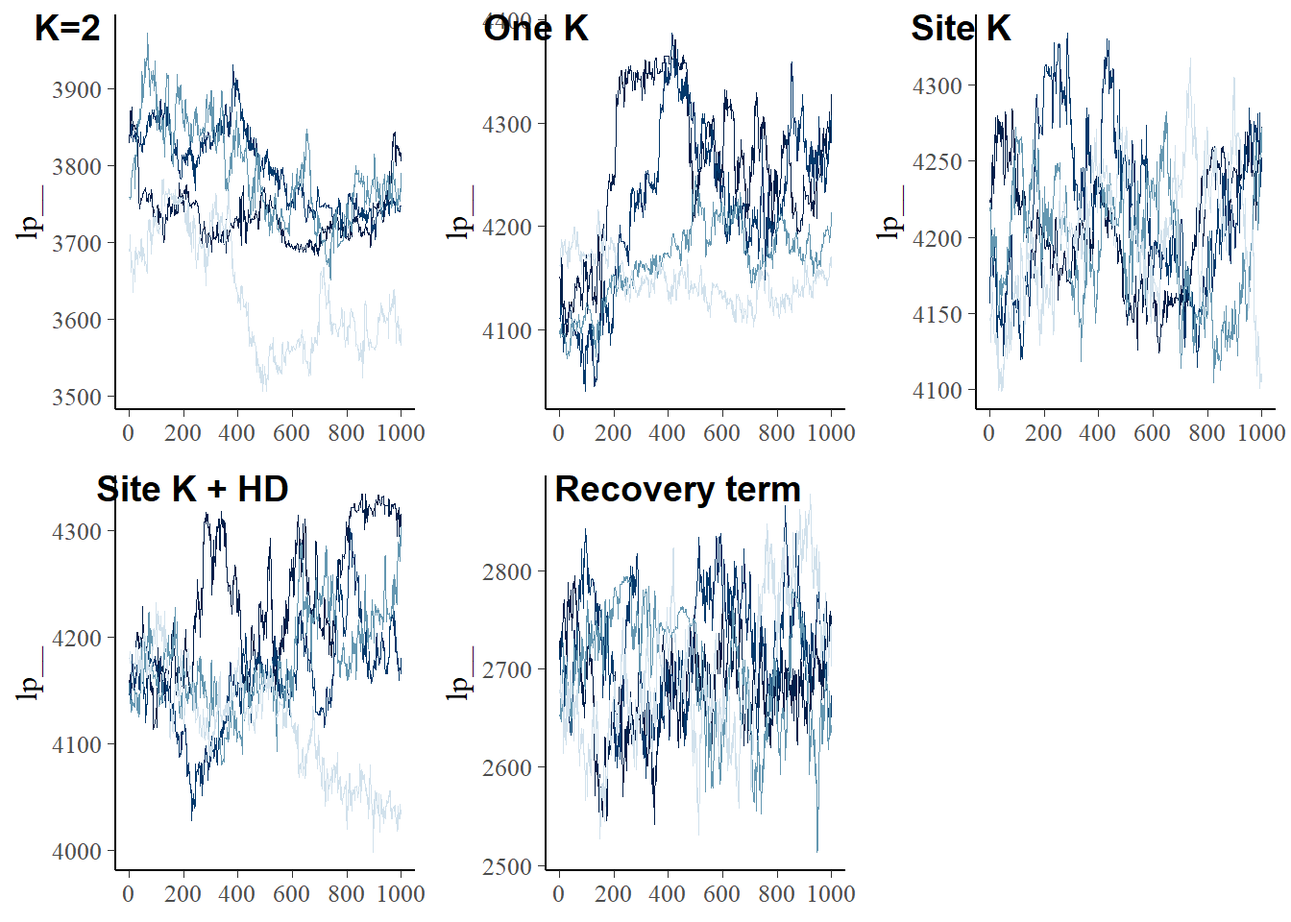
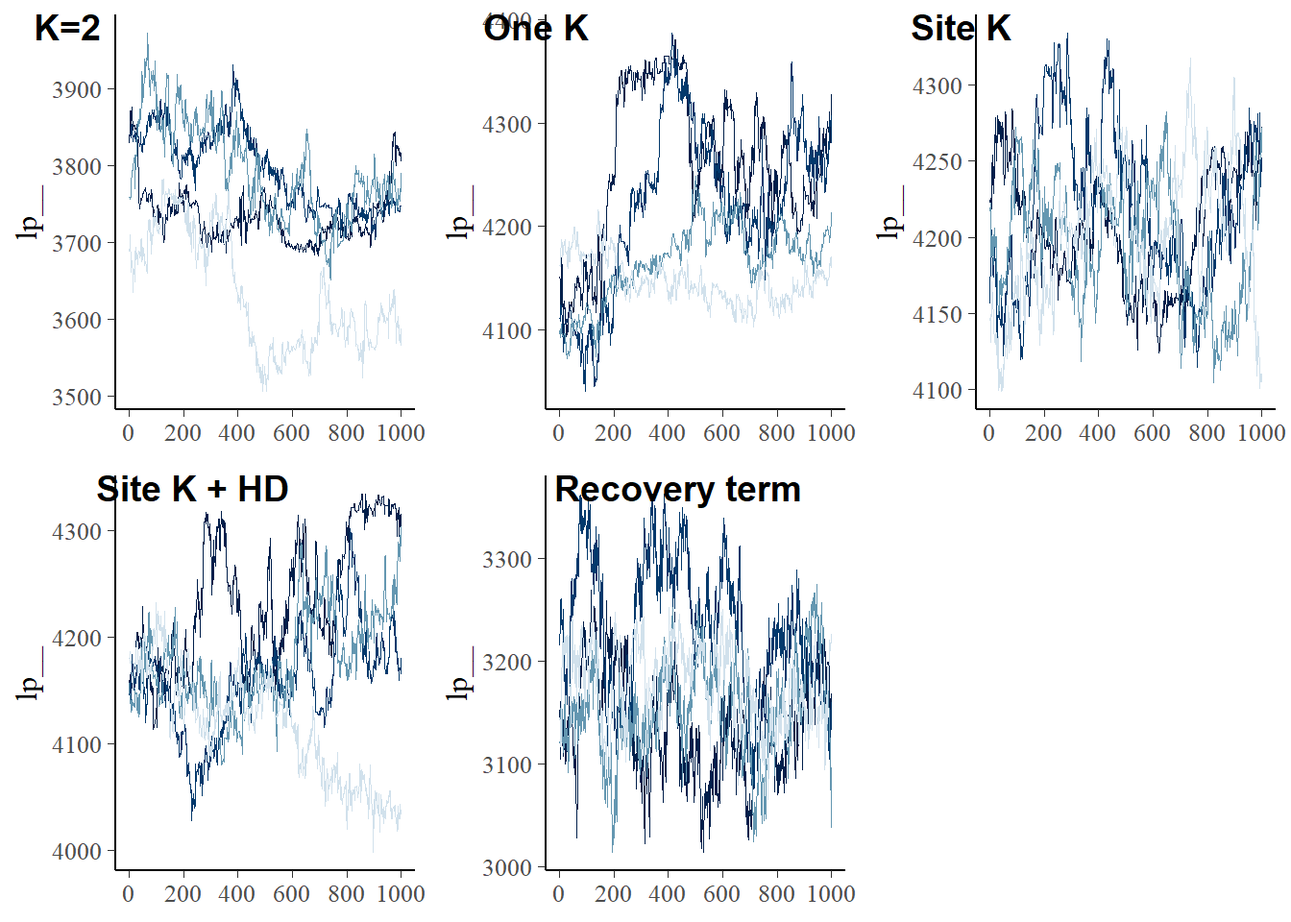
add flexibility in recovery model

diff --git a/docs/93_test_prod_model.html b/docs/93_test_prod_model.html
@@ -412,7 +412,7 @@ window.Quarto = {
 <span id="cb2-23"><a href="#cb2-23" aria-hidden="true" tabindex="-1"></a>  <span class="fu">flextable</span>()</span></code></pre></div><button title="Copy to Clipboard" class="code-copy-button"><i class="bi"></i></button></div>
 </details>
 <div class="cell-output-display">
-<div class="tabwid"><style>.cl-78a5db44{}.cl-7892bd7a{font-family:'Arial';font-size:11pt;font-weight:normal;font-style:normal;text-decoration:none;color:rgba(0, 0, 0, 1.00);background-color:transparent;}.cl-789a10e8{margin:0;text-align:left;border-bottom: 0 solid rgba(0, 0, 0, 1.00);border-top: 0 solid rgba(0, 0, 0, 1.00);border-left: 0 solid rgba(0, 0, 0, 1.00);border-right: 0 solid rgba(0, 0, 0, 1.00);padding-bottom:5pt;padding-top:5pt;padding-left:5pt;padding-right:5pt;line-height: 1;background-color:transparent;}.cl-789a10f2{margin:0;text-align:right;border-bottom: 0 solid rgba(0, 0, 0, 1.00);border-top: 0 solid rgba(0, 0, 0, 1.00);border-left: 0 solid rgba(0, 0, 0, 1.00);border-right: 0 solid rgba(0, 0, 0, 1.00);padding-bottom:5pt;padding-top:5pt;padding-left:5pt;padding-right:5pt;line-height: 1;background-color:transparent;}.cl-789a6b74{width:0.75in;background-color:transparent;vertical-align: middle;border-bottom: 1.5pt solid rgba(102, 102, 102, 1.00);border-top: 1.5pt solid rgba(102, 102, 102, 1.00);border-left: 0 solid rgba(0, 0, 0, 1.00);border-right: 0 solid rgba(0, 0, 0, 1.00);margin-bottom:0;margin-top:0;margin-left:0;margin-right:0;}.cl-789a6b92{width:0.75in;background-color:transparent;vertical-align: middle;border-bottom: 1.5pt solid rgba(102, 102, 102, 1.00);border-top: 1.5pt solid rgba(102, 102, 102, 1.00);border-left: 0 solid rgba(0, 0, 0, 1.00);border-right: 0 solid rgba(0, 0, 0, 1.00);margin-bottom:0;margin-top:0;margin-left:0;margin-right:0;}.cl-789a6b9c{width:0.75in;background-color:transparent;vertical-align: middle;border-bottom: 0 solid rgba(0, 0, 0, 1.00);border-top: 0 solid rgba(0, 0, 0, 1.00);border-left: 0 solid rgba(0, 0, 0, 1.00);border-right: 0 solid rgba(0, 0, 0, 1.00);margin-bottom:0;margin-top:0;margin-left:0;margin-right:0;}.cl-789a6b9d{width:0.75in;background-color:transparent;vertical-align: middle;border-bottom: 0 solid rgba(0, 0, 0, 1.00);border-top: 0 solid rgba(0, 0, 0, 1.00);border-left: 0 solid rgba(0, 0, 0, 1.00);border-right: 0 solid rgba(0, 0, 0, 1.00);margin-bottom:0;margin-top:0;margin-left:0;margin-right:0;}.cl-789a6ba6{width:0.75in;background-color:transparent;vertical-align: middle;border-bottom: 1.5pt solid rgba(102, 102, 102, 1.00);border-top: 0 solid rgba(0, 0, 0, 1.00);border-left: 0 solid rgba(0, 0, 0, 1.00);border-right: 0 solid rgba(0, 0, 0, 1.00);margin-bottom:0;margin-top:0;margin-left:0;margin-right:0;}.cl-789a6ba7{width:0.75in;background-color:transparent;vertical-align: middle;border-bottom: 1.5pt solid rgba(102, 102, 102, 1.00);border-top: 0 solid rgba(0, 0, 0, 1.00);border-left: 0 solid rgba(0, 0, 0, 1.00);border-right: 0 solid rgba(0, 0, 0, 1.00);margin-bottom:0;margin-top:0;margin-left:0;margin-right:0;}</style><table data-quarto-disable-processing="true" class="cl-78a5db44"><thead><tr style="overflow-wrap:break-word;"><th class="cl-789a6b74"><p class="cl-789a10e8"><span class="cl-7892bd7a">parameter</span></p></th><th class="cl-789a6b92"><p class="cl-789a10f2"><span class="cl-7892bd7a">min</span></p></th><th class="cl-789a6b92"><p class="cl-789a10f2"><span class="cl-7892bd7a">max</span></p></th></tr></thead><tbody><tr style="overflow-wrap:break-word;"><td class="cl-789a6b9c"><p class="cl-789a10e8"><span class="cl-7892bd7a">theta</span></p></td><td class="cl-789a6b9d"><p class="cl-789a10f2"><span class="cl-7892bd7a">50.000</span></p></td><td class="cl-789a6b9d"><p class="cl-789a10f2"><span class="cl-7892bd7a">1,000.0</span></p></td></tr><tr style="overflow-wrap:break-word;"><td class="cl-789a6b9c"><p class="cl-789a10e8"><span class="cl-7892bd7a">lambda</span></p></td><td class="cl-789a6b9d"><p class="cl-789a10f2"><span class="cl-7892bd7a">0.010</span></p></td><td class="cl-789a6b9d"><p class="cl-789a10f2"><span class="cl-7892bd7a">5.0</span></p></td></tr><tr style="overflow-wrap:break-word;"><td class="cl-789a6b9c"><p class="cl-789a10e8"><span class="cl-7892bd7a">alpha</span></p></td><td class="cl-789a6b9d"><p class="cl-789a10f2"><span class="cl-7892bd7a">0.000</span></p></td><td class="cl-789a6b9d"><p class="cl-789a10f2"><span class="cl-7892bd7a">200.0</span></p></td></tr><tr style="overflow-wrap:break-word;"><td class="cl-789a6b9c"><p class="cl-789a10e8"><span class="cl-7892bd7a">delta</span></p></td><td class="cl-789a6b9d"><p class="cl-789a10f2"><span class="cl-7892bd7a">0.000</span></p></td><td class="cl-789a6b9d"><p class="cl-789a10f2"><span class="cl-7892bd7a">20.0</span></p></td></tr><tr style="overflow-wrap:break-word;"><td class="cl-789a6b9c"><p class="cl-789a10e8"><span class="cl-7892bd7a">tau</span></p></td><td class="cl-789a6b9d"><p class="cl-789a10f2"><span class="cl-7892bd7a">2.000</span></p></td><td class="cl-789a6b9d"><p class="cl-789a10f2"><span class="cl-7892bd7a">30.0</span></p></td></tr><tr style="overflow-wrap:break-word;"><td class="cl-789a6b9c"><p class="cl-789a10e8"><span class="cl-7892bd7a">k</span></p></td><td class="cl-789a6b9d"><p class="cl-789a10f2"><span class="cl-7892bd7a">0.100</span></p></td><td class="cl-789a6b9d"><p class="cl-789a10f2"><span class="cl-7892bd7a">5.0</span></p></td></tr><tr style="overflow-wrap:break-word;"><td class="cl-789a6b9c"><p class="cl-789a10e8"><span class="cl-7892bd7a">omega</span></p></td><td class="cl-789a6b9d"><p class="cl-789a10f2"><span class="cl-7892bd7a">0.001</span></p></td><td class="cl-789a6b9d"><p class="cl-789a10f2"><span class="cl-7892bd7a">0.5</span></p></td></tr><tr style="overflow-wrap:break-word;"><td class="cl-789a6ba6"><p class="cl-789a10e8"><span class="cl-7892bd7a">y0</span></p></td><td class="cl-789a6ba7"><p class="cl-789a10f2"><span class="cl-7892bd7a">10.000</span></p></td><td class="cl-789a6ba7"><p class="cl-789a10f2"><span class="cl-7892bd7a">1,000.0</span></p></td></tr></tbody></table></div>
+<div class="tabwid"><style>.cl-a3206b34{}.cl-a3062a1c{font-family:'Arial';font-size:11pt;font-weight:normal;font-style:normal;text-decoration:none;color:rgba(0, 0, 0, 1.00);background-color:transparent;}.cl-a311b59e{margin:0;text-align:left;border-bottom: 0 solid rgba(0, 0, 0, 1.00);border-top: 0 solid rgba(0, 0, 0, 1.00);border-left: 0 solid rgba(0, 0, 0, 1.00);border-right: 0 solid rgba(0, 0, 0, 1.00);padding-bottom:5pt;padding-top:5pt;padding-left:5pt;padding-right:5pt;line-height: 1;background-color:transparent;}.cl-a311b5b2{margin:0;text-align:right;border-bottom: 0 solid rgba(0, 0, 0, 1.00);border-top: 0 solid rgba(0, 0, 0, 1.00);border-left: 0 solid rgba(0, 0, 0, 1.00);border-right: 0 solid rgba(0, 0, 0, 1.00);padding-bottom:5pt;padding-top:5pt;padding-left:5pt;padding-right:5pt;line-height: 1;background-color:transparent;}.cl-a31245fe{width:0.75in;background-color:transparent;vertical-align: middle;border-bottom: 1.5pt solid rgba(102, 102, 102, 1.00);border-top: 1.5pt solid rgba(102, 102, 102, 1.00);border-left: 0 solid rgba(0, 0, 0, 1.00);border-right: 0 solid rgba(0, 0, 0, 1.00);margin-bottom:0;margin-top:0;margin-left:0;margin-right:0;}.cl-a312461c{width:0.75in;background-color:transparent;vertical-align: middle;border-bottom: 1.5pt solid rgba(102, 102, 102, 1.00);border-top: 1.5pt solid rgba(102, 102, 102, 1.00);border-left: 0 solid rgba(0, 0, 0, 1.00);border-right: 0 solid rgba(0, 0, 0, 1.00);margin-bottom:0;margin-top:0;margin-left:0;margin-right:0;}.cl-a312461d{width:0.75in;background-color:transparent;vertical-align: middle;border-bottom: 0 solid rgba(0, 0, 0, 1.00);border-top: 0 solid rgba(0, 0, 0, 1.00);border-left: 0 solid rgba(0, 0, 0, 1.00);border-right: 0 solid rgba(0, 0, 0, 1.00);margin-bottom:0;margin-top:0;margin-left:0;margin-right:0;}.cl-a3124626{width:0.75in;background-color:transparent;vertical-align: middle;border-bottom: 0 solid rgba(0, 0, 0, 1.00);border-top: 0 solid rgba(0, 0, 0, 1.00);border-left: 0 solid rgba(0, 0, 0, 1.00);border-right: 0 solid rgba(0, 0, 0, 1.00);margin-bottom:0;margin-top:0;margin-left:0;margin-right:0;}.cl-a3124627{width:0.75in;background-color:transparent;vertical-align: middle;border-bottom: 1.5pt solid rgba(102, 102, 102, 1.00);border-top: 0 solid rgba(0, 0, 0, 1.00);border-left: 0 solid rgba(0, 0, 0, 1.00);border-right: 0 solid rgba(0, 0, 0, 1.00);margin-bottom:0;margin-top:0;margin-left:0;margin-right:0;}.cl-a3124630{width:0.75in;background-color:transparent;vertical-align: middle;border-bottom: 1.5pt solid rgba(102, 102, 102, 1.00);border-top: 0 solid rgba(0, 0, 0, 1.00);border-left: 0 solid rgba(0, 0, 0, 1.00);border-right: 0 solid rgba(0, 0, 0, 1.00);margin-bottom:0;margin-top:0;margin-left:0;margin-right:0;}</style><table data-quarto-disable-processing="true" class="cl-a3206b34"><thead><tr style="overflow-wrap:break-word;"><th class="cl-a31245fe"><p class="cl-a311b59e"><span class="cl-a3062a1c">parameter</span></p></th><th class="cl-a312461c"><p class="cl-a311b5b2"><span class="cl-a3062a1c">min</span></p></th><th class="cl-a312461c"><p class="cl-a311b5b2"><span class="cl-a3062a1c">max</span></p></th></tr></thead><tbody><tr style="overflow-wrap:break-word;"><td class="cl-a312461d"><p class="cl-a311b59e"><span class="cl-a3062a1c">theta</span></p></td><td class="cl-a3124626"><p class="cl-a311b5b2"><span class="cl-a3062a1c">50.000</span></p></td><td class="cl-a3124626"><p class="cl-a311b5b2"><span class="cl-a3062a1c">1,000.0</span></p></td></tr><tr style="overflow-wrap:break-word;"><td class="cl-a312461d"><p class="cl-a311b59e"><span class="cl-a3062a1c">lambda</span></p></td><td class="cl-a3124626"><p class="cl-a311b5b2"><span class="cl-a3062a1c">0.010</span></p></td><td class="cl-a3124626"><p class="cl-a311b5b2"><span class="cl-a3062a1c">5.0</span></p></td></tr><tr style="overflow-wrap:break-word;"><td class="cl-a312461d"><p class="cl-a311b59e"><span class="cl-a3062a1c">alpha</span></p></td><td class="cl-a3124626"><p class="cl-a311b5b2"><span class="cl-a3062a1c">0.000</span></p></td><td class="cl-a3124626"><p class="cl-a311b5b2"><span class="cl-a3062a1c">200.0</span></p></td></tr><tr style="overflow-wrap:break-word;"><td class="cl-a312461d"><p class="cl-a311b59e"><span class="cl-a3062a1c">delta</span></p></td><td class="cl-a3124626"><p class="cl-a311b5b2"><span class="cl-a3062a1c">0.000</span></p></td><td class="cl-a3124626"><p class="cl-a311b5b2"><span class="cl-a3062a1c">20.0</span></p></td></tr><tr style="overflow-wrap:break-word;"><td class="cl-a312461d"><p class="cl-a311b59e"><span class="cl-a3062a1c">tau</span></p></td><td class="cl-a3124626"><p class="cl-a311b5b2"><span class="cl-a3062a1c">2.000</span></p></td><td class="cl-a3124626"><p class="cl-a311b5b2"><span class="cl-a3062a1c">30.0</span></p></td></tr><tr style="overflow-wrap:break-word;"><td class="cl-a312461d"><p class="cl-a311b59e"><span class="cl-a3062a1c">k</span></p></td><td class="cl-a3124626"><p class="cl-a311b5b2"><span class="cl-a3062a1c">0.100</span></p></td><td class="cl-a3124626"><p class="cl-a311b5b2"><span class="cl-a3062a1c">5.0</span></p></td></tr><tr style="overflow-wrap:break-word;"><td class="cl-a312461d"><p class="cl-a311b59e"><span class="cl-a3062a1c">omega</span></p></td><td class="cl-a3124626"><p class="cl-a311b5b2"><span class="cl-a3062a1c">0.001</span></p></td><td class="cl-a3124626"><p class="cl-a311b5b2"><span class="cl-a3062a1c">0.5</span></p></td></tr><tr style="overflow-wrap:break-word;"><td class="cl-a3124627"><p class="cl-a311b59e"><span class="cl-a3062a1c">y0</span></p></td><td class="cl-a3124630"><p class="cl-a311b5b2"><span class="cl-a3062a1c">10.000</span></p></td><td class="cl-a3124630"><p class="cl-a311b5b2"><span class="cl-a3062a1c">1,000.0</span></p></td></tr></tbody></table></div>
 </div>
 </div>
 <div class="cell">
@@ -614,6 +614,7 @@ window.Quarto = {
 <p>Starting from the best previous model (with one kurtosis value per site and no hyperdistribution), we added the following to the model likelihood:</p>
 <p><span class="math display">\[AGB0_p + \int_{t0_p}^{+\infty} (STPP_{t,p} -  STPM_{t,p}) \sim \mathcal{N}(\theta_s \cdot exp(\gamma_s), \sigma_{rec})\]</span></p>
 <p>Where: <span class="math inline">\(AGB0_p\)</span> is the biomass at <span class="math inline">\(t0_p\)</span> (the first post-logging census in plot <span class="math inline">\(p\)</span>); <span class="math inline">\(STPP_{t,p}\)</span> and <span class="math inline">\(STPM_{t,p}\)</span> are the short-term productivity and mortality process terms, respectively; and the estimated equilibrium biomass in site <span class="math inline">\(s\)</span> is represented by the term <span class="math inline">\(\theta_s\)</span>. The term <span class="math inline">\(\gamma_s\)</span> represents the expected deviation from this equilibrium biomass when the biomass recovery of the plots seems to exceed (<span class="math inline">\(\gamma &gt; 0\)</span>) or fall below (<span class="math inline">\(\gamma &lt; 0\)</span>) the value of biomass in the control plots. <span class="math inline">\(\sigma_{rec}\)</span> is the standard deviation of the biomass recovery.</p>
+<p>In this model, we allowed the kurtosis parameter <span class="math inline">\(k\)</span> to vary between plots, to allow for more flexibility in the productivity curve. We chose to leave <span class="math inline">\(\tau\)</span> defined at the site level, because it reflects pioneer species dynamics that we expect to be consistent within site (similar composition).</p>
 <div class="cell">
 <details class="code-fold">
 <summary>Code</summary>
@@ -643,15 +644,16 @@ window.Quarto = {
 <span id="cb8-24"><a href="#cb8-24" aria-hidden="true" tabindex="-1"></a>  <span class="at">site_log =</span> data_rec<span class="sc">$</span>sitenum,</span>
 <span id="cb8-25"><a href="#cb8-25" aria-hidden="true" tabindex="-1"></a>  <span class="at">plot_log =</span> data_rec<span class="sc">$</span>plotnum,</span>
 <span id="cb8-26"><a href="#cb8-26" aria-hidden="true" tabindex="-1"></a>  <span class="at">site_plot =</span> ind_rec<span class="sc">$</span>sitenum,</span>
-<span id="cb8-27"><a href="#cb8-27" aria-hidden="true" tabindex="-1"></a>  <span class="at">theta_bounds =</span> <span class="fu">c</span>(bounds<span class="sc">$</span>theta_min, bounds<span class="sc">$</span>theta_max),</span>
-<span id="cb8-28"><a href="#cb8-28" aria-hidden="true" tabindex="-1"></a>  <span class="at">lambda_bounds =</span> <span class="fu">c</span>(bounds<span class="sc">$</span>lambda_min, bounds<span class="sc">$</span>lambda_max),</span>
-<span id="cb8-29"><a href="#cb8-29" aria-hidden="true" tabindex="-1"></a>  <span class="at">alpha_bounds =</span> <span class="fu">c</span>(bounds<span class="sc">$</span>alpha_min, bounds<span class="sc">$</span>alpha_max),</span>
-<span id="cb8-30"><a href="#cb8-30" aria-hidden="true" tabindex="-1"></a>  <span class="at">delta_bounds =</span> <span class="fu">c</span>(bounds<span class="sc">$</span>delta_min, bounds<span class="sc">$</span>delta_max),</span>
-<span id="cb8-31"><a href="#cb8-31" aria-hidden="true" tabindex="-1"></a>  <span class="at">tau_bounds =</span> <span class="fu">c</span>(bounds<span class="sc">$</span>tau_min, bounds<span class="sc">$</span>tau_max),</span>
-<span id="cb8-32"><a href="#cb8-32" aria-hidden="true" tabindex="-1"></a>  <span class="at">k_bounds =</span> <span class="fu">c</span>(bounds<span class="sc">$</span>k_min, bounds<span class="sc">$</span>k_max),</span>
-<span id="cb8-33"><a href="#cb8-33" aria-hidden="true" tabindex="-1"></a>  <span class="at">omega_bounds =</span> <span class="fu">c</span>(bounds<span class="sc">$</span>omega_min, bounds<span class="sc">$</span>omega_max)</span>
-<span id="cb8-34"><a href="#cb8-34" aria-hidden="true" tabindex="-1"></a>)</span>
-<span id="cb8-35"><a href="#cb8-35" aria-hidden="true" tabindex="-1"></a><span class="fu">sample_model</span>(<span class="st">"flux_all_simpl_recov"</span>, mdata_all)</span></code></pre></div><button title="Copy to Clipboard" class="code-copy-button"><i class="bi"></i></button></div>
+<span id="cb8-27"><a href="#cb8-27" aria-hidden="true" tabindex="-1"></a>  <span class="at">sd_eq =</span> <span class="fu">summarise</span>(<span class="fu">group_by</span>(data_old, Site), <span class="at">sd =</span> <span class="fu">sd</span>(stocks))<span class="sc">$</span>sd,</span>
+<span id="cb8-28"><a href="#cb8-28" aria-hidden="true" tabindex="-1"></a>  <span class="at">theta_bounds =</span> <span class="fu">c</span>(bounds<span class="sc">$</span>theta_min, bounds<span class="sc">$</span>theta_max),</span>
+<span id="cb8-29"><a href="#cb8-29" aria-hidden="true" tabindex="-1"></a>  <span class="at">lambda_bounds =</span> <span class="fu">c</span>(bounds<span class="sc">$</span>lambda_min, bounds<span class="sc">$</span>lambda_max),</span>
+<span id="cb8-30"><a href="#cb8-30" aria-hidden="true" tabindex="-1"></a>  <span class="at">alpha_bounds =</span> <span class="fu">c</span>(bounds<span class="sc">$</span>alpha_min, bounds<span class="sc">$</span>alpha_max),</span>
+<span id="cb8-31"><a href="#cb8-31" aria-hidden="true" tabindex="-1"></a>  <span class="at">delta_bounds =</span> <span class="fu">c</span>(bounds<span class="sc">$</span>delta_min, bounds<span class="sc">$</span>delta_max),</span>
+<span id="cb8-32"><a href="#cb8-32" aria-hidden="true" tabindex="-1"></a>  <span class="at">tau_bounds =</span> <span class="fu">c</span>(bounds<span class="sc">$</span>tau_min, bounds<span class="sc">$</span>tau_max),</span>
+<span id="cb8-33"><a href="#cb8-33" aria-hidden="true" tabindex="-1"></a>  <span class="at">k_bounds =</span> <span class="fu">c</span>(bounds<span class="sc">$</span>k_min, bounds<span class="sc">$</span>k_max),</span>
+<span id="cb8-34"><a href="#cb8-34" aria-hidden="true" tabindex="-1"></a>  <span class="at">omega_bounds =</span> <span class="fu">c</span>(bounds<span class="sc">$</span>omega_min, bounds<span class="sc">$</span>omega_max)</span>
+<span id="cb8-35"><a href="#cb8-35" aria-hidden="true" tabindex="-1"></a>)</span>
+<span id="cb8-36"><a href="#cb8-36" aria-hidden="true" tabindex="-1"></a><span class="fu">sample_model</span>(<span class="st">"flux_recov_kp"</span>, mdata_all)</span></code></pre></div><button title="Copy to Clipboard" class="code-copy-button"><i class="bi"></i></button></div>
 </details>
 </div>
 </section>
@@ -666,7 +668,7 @@ window.Quarto = {
 <span id="cb9-3"><a href="#cb9-3" aria-hidden="true" tabindex="-1"></a>  <span class="st">"flux_all_simpl_K"</span>,</span>
 <span id="cb9-4"><a href="#cb9-4" aria-hidden="true" tabindex="-1"></a>  <span class="st">"flux_all_simpl_Ksite_nohyper"</span>,</span>
 <span id="cb9-5"><a href="#cb9-5" aria-hidden="true" tabindex="-1"></a>  <span class="st">"flux_all_simpl_Ksite"</span>,</span>
-<span id="cb9-6"><a href="#cb9-6" aria-hidden="true" tabindex="-1"></a>  <span class="st">"flux_all_simpl_recov"</span></span>
+<span id="cb9-6"><a href="#cb9-6" aria-hidden="true" tabindex="-1"></a>  <span class="st">"flux_recov_kp"</span></span>
 <span id="cb9-7"><a href="#cb9-7" aria-hidden="true" tabindex="-1"></a>) <span class="sc">|&gt;</span></span>
 <span id="cb9-8"><a href="#cb9-8" aria-hidden="true" tabindex="-1"></a>  <span class="fu">lapply</span>(<span class="cf">function</span>(name) {</span>
 <span id="cb9-9"><a href="#cb9-9" aria-hidden="true" tabindex="-1"></a>    <span class="fu">as_cmdstan_fit</span>(<span class="fu">list.files</span>(<span class="fu">paste0</span>(<span class="st">"chains/"</span>, name),</span>
@@ -793,40 +795,43 @@ window.Quarto = {
 <span id="cb13-6"><a href="#cb13-6" aria-hidden="true" tabindex="-1"></a>  <span class="fu">select</span>(Site, sitenum) <span class="sc">|&gt;</span></span>
 <span id="cb13-7"><a href="#cb13-7" aria-hidden="true" tabindex="-1"></a>  <span class="fu">unique</span>() <span class="sc">|&gt;</span></span>
 <span id="cb13-8"><a href="#cb13-8" aria-hidden="true" tabindex="-1"></a>  <span class="fu">arrange</span>(sitenum)</span>
-<span id="cb13-9"><a href="#cb13-9" aria-hidden="true" tabindex="-1"></a>df_k <span class="ot">&lt;-</span> <span class="fu">lapply</span>(<span class="dv">1</span><span class="sc">:</span><span class="dv">5</span>, <span class="cf">function</span>(i) {</span>
-<span id="cb13-10"><a href="#cb13-10" aria-hidden="true" tabindex="-1"></a>  <span class="cf">if</span> (i <span class="sc">==</span> <span class="dv">1</span>) {</span>
-<span id="cb13-11"><a href="#cb13-11" aria-hidden="true" tabindex="-1"></a>    ind_site <span class="sc">|&gt;</span></span>
-<span id="cb13-12"><a href="#cb13-12" aria-hidden="true" tabindex="-1"></a>      <span class="fu">mutate</span>(<span class="at">model =</span> <span class="st">"K=2"</span>, <span class="at">k =</span> <span class="st">"2"</span>)</span>
-<span id="cb13-13"><a href="#cb13-13" aria-hidden="true" tabindex="-1"></a>  } <span class="cf">else</span> <span class="cf">if</span> (i <span class="sc">==</span> <span class="dv">2</span>) {</span>
-<span id="cb13-14"><a href="#cb13-14" aria-hidden="true" tabindex="-1"></a>    k <span class="ot">&lt;-</span> <span class="fu">round</span>(fit_flux_all[[i]]<span class="sc">$</span><span class="fu">summary</span>(<span class="fu">c</span>(<span class="st">"k"</span>))[, <span class="fu">c</span>(<span class="st">"q5"</span>, <span class="st">"median"</span>, <span class="st">"q95"</span>)], <span class="dv">2</span>)</span>
+<span id="cb13-9"><a href="#cb13-9" aria-hidden="true" tabindex="-1"></a>ind_plot <span class="ot">&lt;-</span> data_rec <span class="sc">|&gt;</span></span>
+<span id="cb13-10"><a href="#cb13-10" aria-hidden="true" tabindex="-1"></a>  <span class="fu">select</span>(Site, sitenum, plotnum) <span class="sc">|&gt;</span></span>
+<span id="cb13-11"><a href="#cb13-11" aria-hidden="true" tabindex="-1"></a>  <span class="fu">unique</span>() <span class="sc">|&gt;</span></span>
+<span id="cb13-12"><a href="#cb13-12" aria-hidden="true" tabindex="-1"></a>  <span class="fu">arrange</span>(sitenum, plotnum)</span>
+<span id="cb13-13"><a href="#cb13-13" aria-hidden="true" tabindex="-1"></a>df_k <span class="ot">&lt;-</span> <span class="fu">lapply</span>(<span class="dv">1</span><span class="sc">:</span><span class="dv">5</span>, <span class="cf">function</span>(i) {</span>
+<span id="cb13-14"><a href="#cb13-14" aria-hidden="true" tabindex="-1"></a>  <span class="cf">if</span> (i <span class="sc">==</span> <span class="dv">1</span>) {</span>
 <span id="cb13-15"><a href="#cb13-15" aria-hidden="true" tabindex="-1"></a>    ind_site <span class="sc">|&gt;</span></span>
-<span id="cb13-16"><a href="#cb13-16" aria-hidden="true" tabindex="-1"></a>      <span class="fu">mutate</span>(<span class="at">model =</span> <span class="st">"One K"</span>, <span class="at">k =</span> <span class="fu">paste0</span>(k<span class="sc">$</span>median, <span class="st">" ["</span>, k<span class="sc">$</span>q5, <span class="st">","</span>, k<span class="sc">$</span>q95, <span class="st">"]"</span>))</span>
-<span id="cb13-17"><a href="#cb13-17" aria-hidden="true" tabindex="-1"></a>  } <span class="cf">else</span> {</span>
-<span id="cb13-18"><a href="#cb13-18" aria-hidden="true" tabindex="-1"></a>    fit_flux_all[[i]]<span class="sc">$</span><span class="fu">summary</span>(<span class="fu">c</span>(<span class="st">"k_s"</span>)) <span class="sc">|&gt;</span></span>
-<span id="cb13-19"><a href="#cb13-19" aria-hidden="true" tabindex="-1"></a>      <span class="fu">mutate</span>(<span class="fu">across</span>(<span class="fu">where</span>(is.numeric), <span class="sc">~</span> <span class="fu">round</span>(.x, <span class="dv">2</span>))) <span class="sc">|&gt;</span></span>
-<span id="cb13-20"><a href="#cb13-20" aria-hidden="true" tabindex="-1"></a>      <span class="fu">mutate</span>(<span class="at">k =</span> <span class="fu">paste0</span>(median, <span class="st">" ["</span>, q5, <span class="st">","</span>, q95, <span class="st">"]"</span>)) <span class="sc">|&gt;</span></span>
-<span id="cb13-21"><a href="#cb13-21" aria-hidden="true" tabindex="-1"></a>      <span class="fu">bind_cols</span>(ind_site) <span class="sc">|&gt;</span></span>
-<span id="cb13-22"><a href="#cb13-22" aria-hidden="true" tabindex="-1"></a>      <span class="fu">mutate</span>(<span class="at">model =</span> <span class="fu">c</span>(</span>
-<span id="cb13-23"><a href="#cb13-23" aria-hidden="true" tabindex="-1"></a>        <span class="st">"Site K"</span>, <span class="st">"Site K + Hyperdistribution"</span>,</span>
-<span id="cb13-24"><a href="#cb13-24" aria-hidden="true" tabindex="-1"></a>        <span class="st">"Recovery term"</span></span>
-<span id="cb13-25"><a href="#cb13-25" aria-hidden="true" tabindex="-1"></a>      )[i <span class="sc">-</span> <span class="dv">2</span>]) <span class="sc">|&gt;</span></span>
-<span id="cb13-26"><a href="#cb13-26" aria-hidden="true" tabindex="-1"></a>      <span class="fu">select</span>(Site, sitenum, model, k)</span>
-<span id="cb13-27"><a href="#cb13-27" aria-hidden="true" tabindex="-1"></a>  }</span>
-<span id="cb13-28"><a href="#cb13-28" aria-hidden="true" tabindex="-1"></a>}) <span class="sc">|&gt;</span></span>
-<span id="cb13-29"><a href="#cb13-29" aria-hidden="true" tabindex="-1"></a>  <span class="fu">bind_rows</span>()</span>
-<span id="cb13-30"><a href="#cb13-30" aria-hidden="true" tabindex="-1"></a></span>
-<span id="cb13-31"><a href="#cb13-31" aria-hidden="true" tabindex="-1"></a>pov_data <span class="sc">|&gt;</span></span>
-<span id="cb13-32"><a href="#cb13-32" aria-hidden="true" tabindex="-1"></a>  <span class="fu">subset</span>(variable <span class="sc">==</span> <span class="st">"prod"</span>) <span class="sc">|&gt;</span></span>
-<span id="cb13-33"><a href="#cb13-33" aria-hidden="true" tabindex="-1"></a>  <span class="fu">mutate</span>(<span class="at">Plot =</span> plot_new) <span class="sc">|&gt;</span></span>
-<span id="cb13-34"><a href="#cb13-34" aria-hidden="true" tabindex="-1"></a>  <span class="fu">graph_traj</span>(<span class="fu">expression</span>(<span class="st">"AGB productivity ["</span> <span class="sc">~</span> Mg <span class="sc">~</span> ha<span class="sc">^-</span><span class="dv">1</span> <span class="sc">~</span> yr<span class="sc">^-</span><span class="dv">1</span> <span class="sc">~</span> <span class="st">"]"</span>)) <span class="sc">+</span></span>
-<span id="cb13-35"><a href="#cb13-35" aria-hidden="true" tabindex="-1"></a>  <span class="fu">geom_text</span>(<span class="at">data =</span> df_rmse, <span class="fu">aes</span>(</span>
-<span id="cb13-36"><a href="#cb13-36" aria-hidden="true" tabindex="-1"></a>    <span class="at">x =</span> <span class="sc">-</span><span class="cn">Inf</span>, <span class="at">y =</span> <span class="cn">Inf</span>, <span class="at">hjust =</span> <span class="sc">-</span><span class="fl">0.1</span>, <span class="at">vjust =</span> <span class="dv">1</span>,</span>
-<span id="cb13-37"><a href="#cb13-37" aria-hidden="true" tabindex="-1"></a>    <span class="at">label =</span> <span class="fu">paste</span>(<span class="st">"RMSE ="</span>, <span class="fu">round</span>(rmse, <span class="dv">2</span>))</span>
-<span id="cb13-38"><a href="#cb13-38" aria-hidden="true" tabindex="-1"></a>  )) <span class="sc">+</span></span>
-<span id="cb13-39"><a href="#cb13-39" aria-hidden="true" tabindex="-1"></a>  <span class="fu">geom_text</span>(<span class="at">data =</span> df_k, <span class="fu">aes</span>(</span>
-<span id="cb13-40"><a href="#cb13-40" aria-hidden="true" tabindex="-1"></a>    <span class="at">x =</span> <span class="sc">-</span><span class="cn">Inf</span>, <span class="at">y =</span> <span class="cn">Inf</span>, <span class="at">hjust =</span> <span class="sc">-</span><span class="fl">0.1</span>, <span class="at">vjust =</span> <span class="dv">2</span>, <span class="at">label =</span> <span class="fu">paste</span>(<span class="st">"K ="</span>, k)</span>
+<span id="cb13-16"><a href="#cb13-16" aria-hidden="true" tabindex="-1"></a>      <span class="fu">mutate</span>(<span class="at">model =</span> <span class="st">"K=2"</span>, <span class="at">k =</span> <span class="st">"2"</span>)</span>
+<span id="cb13-17"><a href="#cb13-17" aria-hidden="true" tabindex="-1"></a>  } <span class="cf">else</span> <span class="cf">if</span> (i <span class="sc">==</span> <span class="dv">2</span>) {</span>
+<span id="cb13-18"><a href="#cb13-18" aria-hidden="true" tabindex="-1"></a>    k <span class="ot">&lt;-</span> <span class="fu">round</span>(fit_flux_all[[i]]<span class="sc">$</span><span class="fu">summary</span>(<span class="fu">c</span>(<span class="st">"k"</span>))[, <span class="fu">c</span>(<span class="st">"q5"</span>, <span class="st">"median"</span>, <span class="st">"q95"</span>)], <span class="dv">2</span>)</span>
+<span id="cb13-19"><a href="#cb13-19" aria-hidden="true" tabindex="-1"></a>    ind_site <span class="sc">|&gt;</span></span>
+<span id="cb13-20"><a href="#cb13-20" aria-hidden="true" tabindex="-1"></a>      <span class="fu">mutate</span>(<span class="at">model =</span> <span class="st">"One K"</span>, <span class="at">k =</span> <span class="fu">paste0</span>(k<span class="sc">$</span>median, <span class="st">" ["</span>, k<span class="sc">$</span>q5, <span class="st">","</span>, k<span class="sc">$</span>q95, <span class="st">"]"</span>))</span>
+<span id="cb13-21"><a href="#cb13-21" aria-hidden="true" tabindex="-1"></a>  } <span class="cf">else</span> {</span>
+<span id="cb13-22"><a href="#cb13-22" aria-hidden="true" tabindex="-1"></a>    fit_flux_all[[i]]<span class="sc">$</span><span class="fu">summary</span>(<span class="fu">c</span>(<span class="st">"k_s"</span>, <span class="st">"k_p"</span>)[<span class="dv">1</span><span class="sc">+</span>(i<span class="sc">&gt;</span><span class="dv">4</span>)]) <span class="sc">|&gt;</span></span>
+<span id="cb13-23"><a href="#cb13-23" aria-hidden="true" tabindex="-1"></a>      <span class="fu">bind_cols</span>(<span class="fu">list</span>(ind_site, ind_plot)[[<span class="dv">1</span><span class="sc">+</span>(i<span class="sc">&gt;</span><span class="dv">4</span>)]]) <span class="sc">|&gt;</span> <span class="co"># add site/plot info</span></span>
+<span id="cb13-24"><a href="#cb13-24" aria-hidden="true" tabindex="-1"></a>      <span class="fu">group_by</span>(Site, sitenum) <span class="sc">|&gt;</span></span>
+<span id="cb13-25"><a href="#cb13-25" aria-hidden="true" tabindex="-1"></a>      <span class="fu">summarise</span>(<span class="fu">across</span>(<span class="fu">where</span>(is.numeric), <span class="sc">~</span> <span class="fu">round</span>(<span class="fu">mean</span>(.x), <span class="dv">2</span>))) <span class="sc">|&gt;</span></span>
+<span id="cb13-26"><a href="#cb13-26" aria-hidden="true" tabindex="-1"></a>      <span class="fu">mutate</span>(<span class="at">k =</span> <span class="fu">paste0</span>(median, <span class="st">" ["</span>, q5, <span class="st">","</span>, q95, <span class="st">"]"</span>)) <span class="sc">|&gt;</span></span>
+<span id="cb13-27"><a href="#cb13-27" aria-hidden="true" tabindex="-1"></a>      <span class="fu">mutate</span>(<span class="at">model =</span> <span class="fu">c</span>(</span>
+<span id="cb13-28"><a href="#cb13-28" aria-hidden="true" tabindex="-1"></a>        <span class="st">"Site K"</span>, <span class="st">"Site K + Hyperdistribution"</span>, <span class="st">"Recovery term"</span>)[i <span class="sc">-</span> <span class="dv">2</span>]) <span class="sc">|&gt;</span></span>
+<span id="cb13-29"><a href="#cb13-29" aria-hidden="true" tabindex="-1"></a>      <span class="fu">select</span>(Site, sitenum, model, k)</span>
+<span id="cb13-30"><a href="#cb13-30" aria-hidden="true" tabindex="-1"></a>  }</span>
+<span id="cb13-31"><a href="#cb13-31" aria-hidden="true" tabindex="-1"></a>}) <span class="sc">|&gt;</span></span>
+<span id="cb13-32"><a href="#cb13-32" aria-hidden="true" tabindex="-1"></a>  <span class="fu">bind_rows</span>()</span>
+<span id="cb13-33"><a href="#cb13-33" aria-hidden="true" tabindex="-1"></a></span>
+<span id="cb13-34"><a href="#cb13-34" aria-hidden="true" tabindex="-1"></a>pov_data <span class="sc">|&gt;</span></span>
+<span id="cb13-35"><a href="#cb13-35" aria-hidden="true" tabindex="-1"></a>  <span class="fu">subset</span>(variable <span class="sc">==</span> <span class="st">"prod"</span>) <span class="sc">|&gt;</span></span>
+<span id="cb13-36"><a href="#cb13-36" aria-hidden="true" tabindex="-1"></a>  <span class="fu">mutate</span>(<span class="at">Plot =</span> plot_new) <span class="sc">|&gt;</span></span>
+<span id="cb13-37"><a href="#cb13-37" aria-hidden="true" tabindex="-1"></a>  <span class="fu">graph_traj</span>(<span class="fu">expression</span>(<span class="st">"AGB productivity ["</span> <span class="sc">~</span> Mg <span class="sc">~</span> ha<span class="sc">^-</span><span class="dv">1</span> <span class="sc">~</span> yr<span class="sc">^-</span><span class="dv">1</span> <span class="sc">~</span> <span class="st">"]"</span>)) <span class="sc">+</span></span>
+<span id="cb13-38"><a href="#cb13-38" aria-hidden="true" tabindex="-1"></a>  <span class="fu">geom_text</span>(<span class="at">data =</span> df_rmse, <span class="fu">aes</span>(</span>
+<span id="cb13-39"><a href="#cb13-39" aria-hidden="true" tabindex="-1"></a>    <span class="at">x =</span> <span class="sc">-</span><span class="cn">Inf</span>, <span class="at">y =</span> <span class="cn">Inf</span>, <span class="at">hjust =</span> <span class="sc">-</span><span class="fl">0.1</span>, <span class="at">vjust =</span> <span class="dv">1</span>,</span>
+<span id="cb13-40"><a href="#cb13-40" aria-hidden="true" tabindex="-1"></a>    <span class="at">label =</span> <span class="fu">paste</span>(<span class="st">"RMSE ="</span>, <span class="fu">round</span>(rmse, <span class="dv">2</span>))</span>
 <span id="cb13-41"><a href="#cb13-41" aria-hidden="true" tabindex="-1"></a>  )) <span class="sc">+</span></span>
-<span id="cb13-42"><a href="#cb13-42" aria-hidden="true" tabindex="-1"></a>  <span class="fu">facet_grid</span>(Site <span class="sc">~</span> model, <span class="at">scales =</span> <span class="st">"free"</span>)</span></code></pre></div><button title="Copy to Clipboard" class="code-copy-button"><i class="bi"></i></button></div>
+<span id="cb13-42"><a href="#cb13-42" aria-hidden="true" tabindex="-1"></a>  <span class="fu">geom_text</span>(<span class="at">data =</span> df_k, <span class="fu">aes</span>(</span>
+<span id="cb13-43"><a href="#cb13-43" aria-hidden="true" tabindex="-1"></a>    <span class="at">x =</span> <span class="sc">-</span><span class="cn">Inf</span>, <span class="at">y =</span> <span class="cn">Inf</span>, <span class="at">hjust =</span> <span class="sc">-</span><span class="fl">0.1</span>, <span class="at">vjust =</span> <span class="dv">2</span>, <span class="at">label =</span> <span class="fu">paste</span>(<span class="st">"K ="</span>, k)</span>
+<span id="cb13-44"><a href="#cb13-44" aria-hidden="true" tabindex="-1"></a>  )) <span class="sc">+</span></span>
+<span id="cb13-45"><a href="#cb13-45" aria-hidden="true" tabindex="-1"></a>  <span class="fu">facet_grid</span>(Site <span class="sc">~</span> model, <span class="at">scales =</span> <span class="st">"free"</span>)</span></code></pre></div><button title="Copy to Clipboard" class="code-copy-button"><i class="bi"></i></button></div>
 </details>
 <div class="cell-output-display">
 <div>
